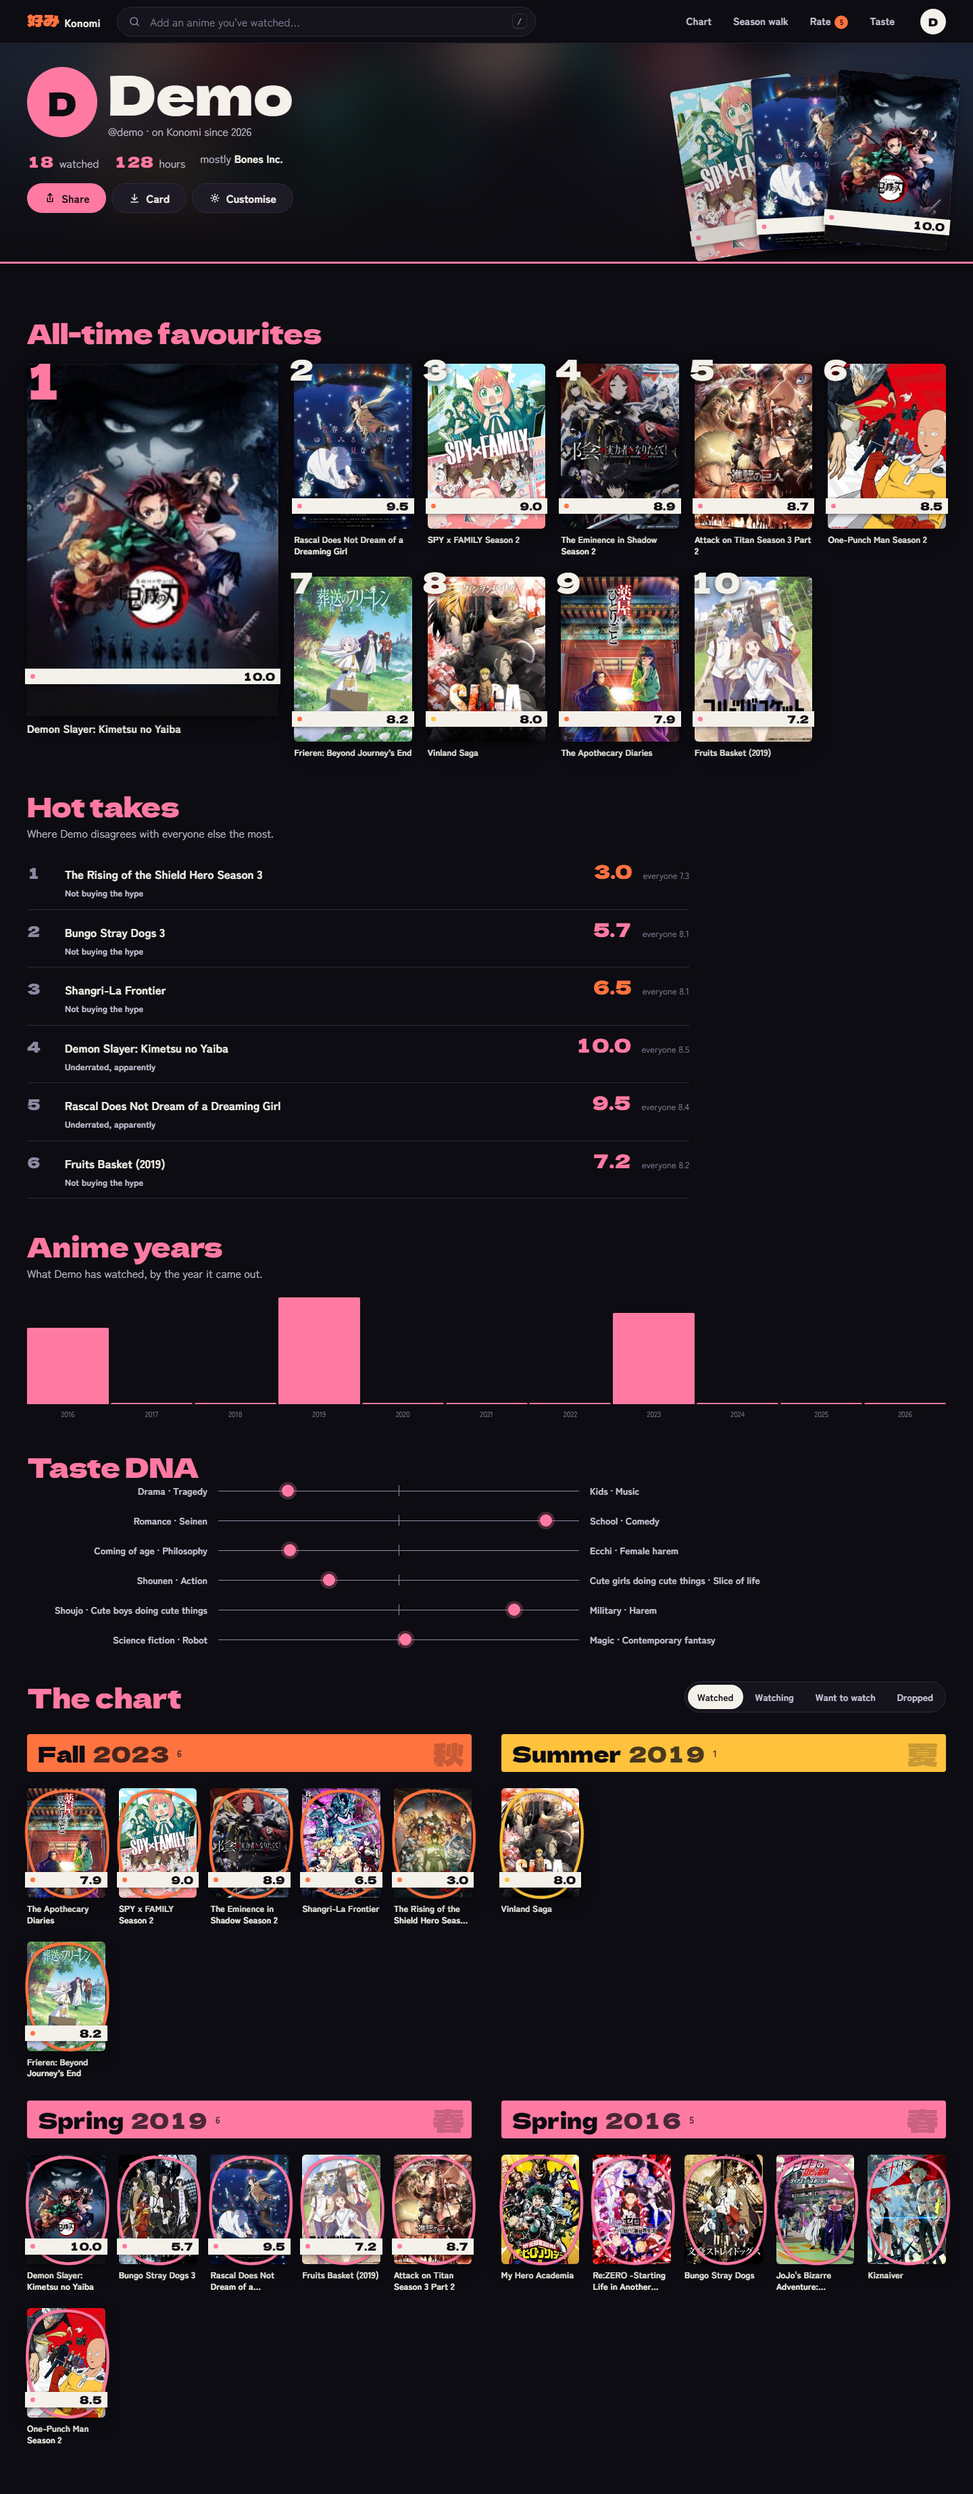
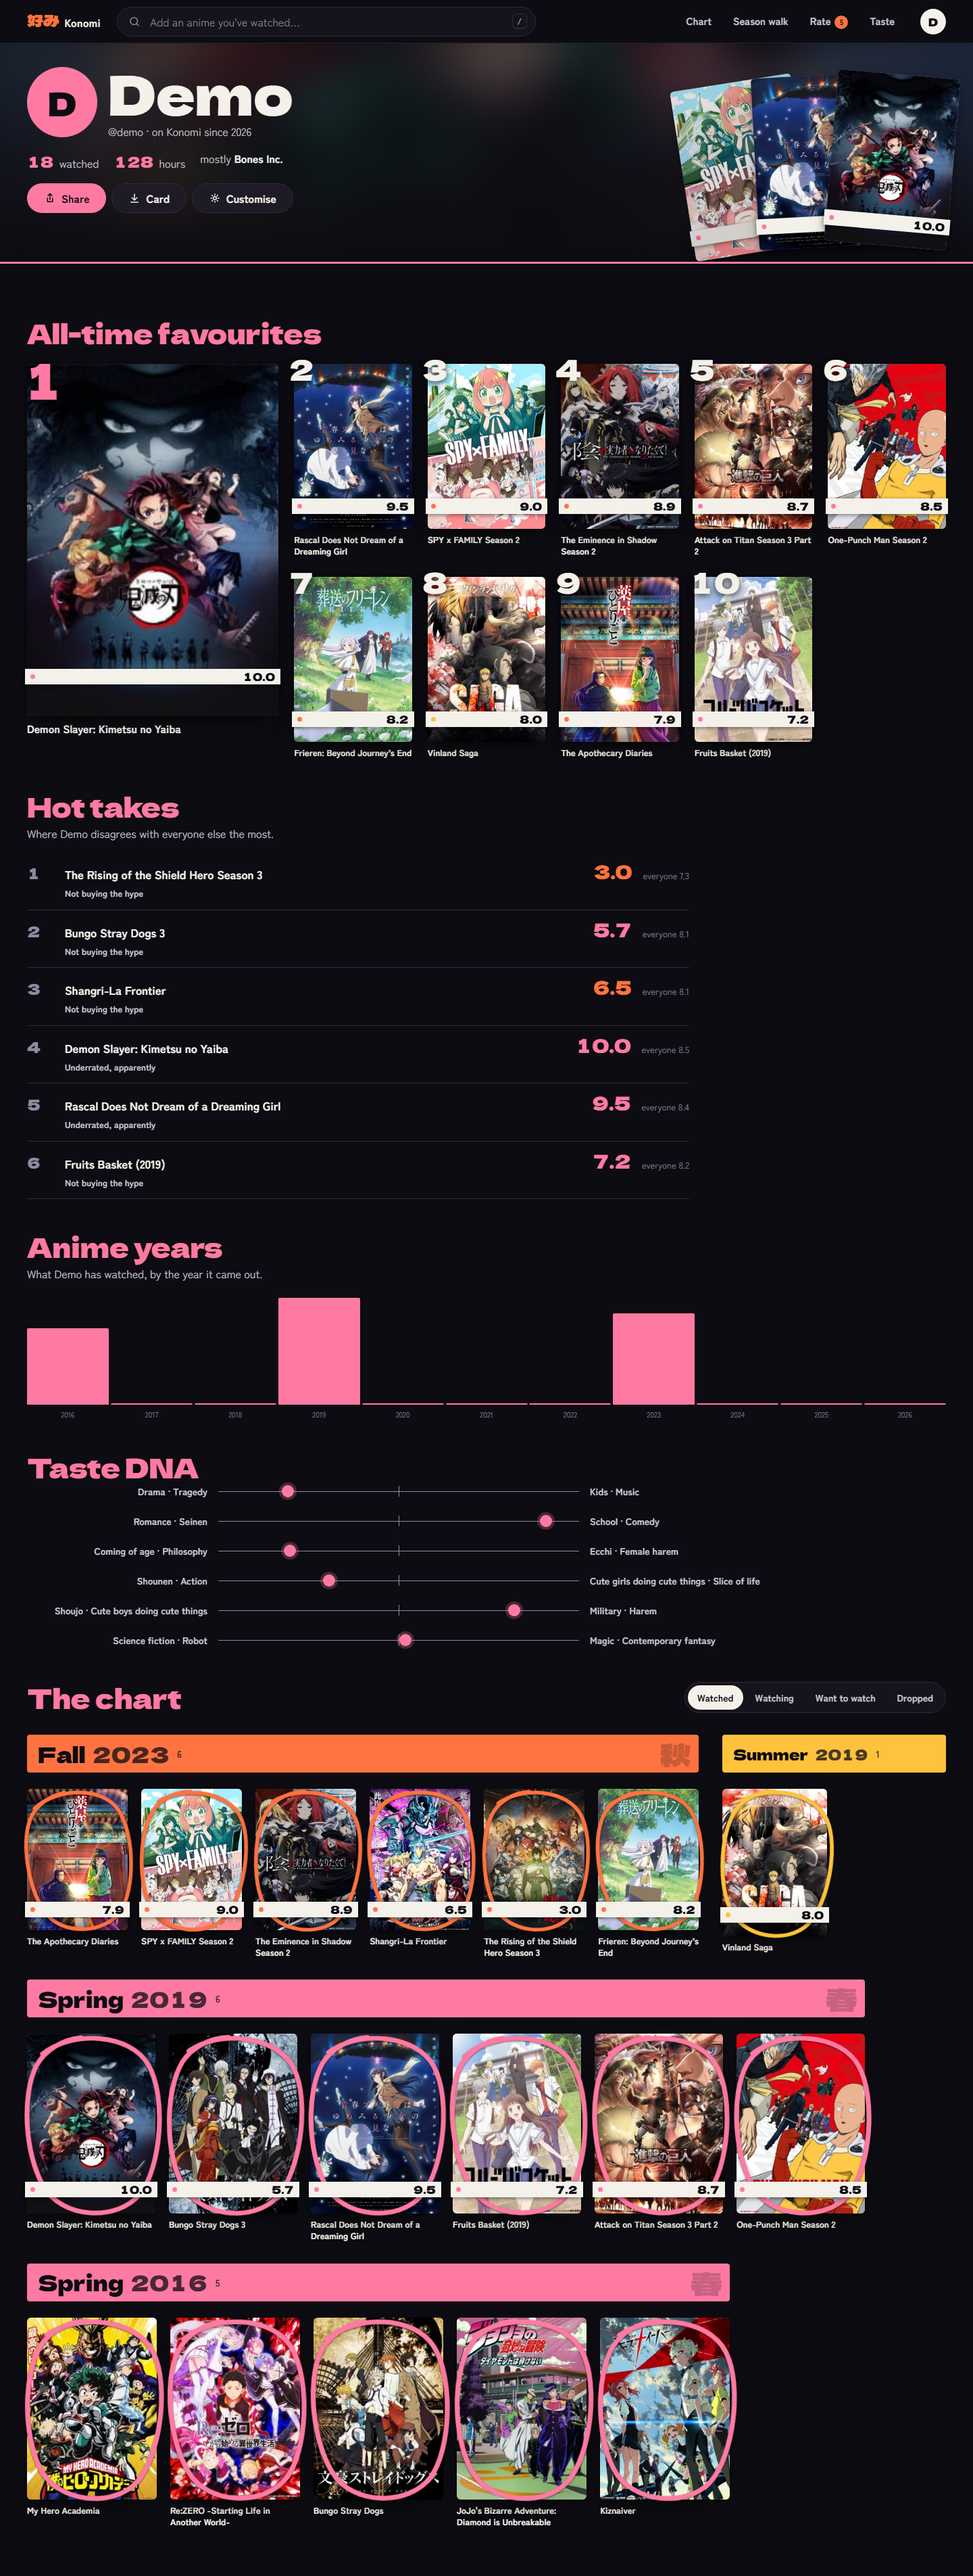
Chart bands pack by size, rate panel docks in rail, capture tooling

diff --git a/web/src/components/seasonband.css b/web/src/components/seasonband.css
@@ -24,10 +24,16 @@
 .band-neutral .band-aside .btn { background: transparent; color: var(--paper); }
 .band-neutral .band-aside .btn:hover { background: var(--ink-3); }
 
-.bands { display: grid; grid-template-columns: repeat(auto-fill, minmax(min(100%, 600px), 1fr)); gap: 0 clamp(24px, 3vw, 56px); align-items: start; }
+.bands { display: flex; flex-wrap: wrap; gap: 0 clamp(20px, 2.4vw, 44px); align-items: flex-start; }
+.bands > .band { flex: var(--n, 4) 1 calc(var(--n, 4) * 150px); max-width: min(100%, calc(var(--n, 4) * 200px + 40px)); }
 .bands > .band + .band { margin-top: 0; }
-.bands > .band-wide { grid-column: 1 / -1; }
-
+.bands > .band-wide { flex-basis: 100%; max-width: 100%; }
+.bands > .band:not(.band-wide) .grid { grid-template-columns: var(--cols, repeat(4, minmax(0, 1fr))); }
+@media (max-width: 700px) {
+  .bands > .band { flex-basis: 100%; max-width: 100%; }
+  .bands > .band:not(.band-wide) .grid { grid-template-columns: repeat(auto-fill, minmax(clamp(98px, 28vw, 150px), 1fr)); }
+}
+.bands > .band-wide .grid { grid-template-columns: repeat(auto-fill, minmax(clamp(96px, 8vw, 140px), 1fr)); }
 .grid {
   display: grid; gap: clamp(14px, 1.6vw, 26px) clamp(12px, 1.4vw, 22px);
   grid-template-columns: repeat(auto-fill, minmax(clamp(98px, 10.5vw, 158px), 1fr));
@@ -44,4 +50,5 @@
 .tile:hover .cover-art { transform: translateY(-3px); }
 .tile .cover-art { transition: transform 0.25s var(--ease-out); }
 .band-head:has(.band-aside) .band-kanji { display: none; }
-.bands .grid { grid-template-columns: repeat(auto-fill, minmax(clamp(96px, 8vw, 140px), 1fr)); }
+.band-narrow .band-kanji { display: none; }
+.band-narrow .band-title .display { font-size: 22px; }

diff --git a/web/src/components/SeasonBand.tsx b/web/src/components/SeasonBand.tsx
@@ -4,15 +4,18 @@ import type { Season } from '../lib/types'
 import './seasonband.css'
 
 /** A season header in its own ink: big kanji, season + year, and a count. */
-export function SeasonBand({ season, year, count, children, aside, label, neutral, wide }: {
+export function SeasonBand({ season, year, count, children, aside, label, neutral, wide, n }: {
   season: Season | null; year: number | null; count?: string; children: ReactNode; aside?: ReactNode; label?: string
   /** Not a real season (For you, Recently added): paper header, no season ink. */
   neutral?: boolean
   /** Span the full row inside a multi-column <Bands>. */
   wide?: boolean
+  /** Number of titles: inside <Bands>, a band is as wide as its titles need, so rows pack like a printed chart. */
+  n?: number
 }) {
   return (
-    <section className={`band${neutral ? ' band-neutral' : ''}${wide ? ' band-wide' : ''}`} data-season={neutral ? undefined : season ?? undefined}>
+    <section className={`band${neutral ? ' band-neutral' : ''}${wide ? ' band-wide' : ''}${n && n <= 2 ? ' band-narrow' : ''}`} data-season={neutral ? undefined : season ?? undefined}
+      style={n ? { ['--n' as string]: Math.min(Math.max(n, 2), 8), ['--cols' as string]: `repeat(${Math.min(Math.max(n, 2), 8)}, minmax(0, 1fr))` } : undefined}>
       <header className="band-head">
         {!neutral && season && <span className="band-kanji display" aria-hidden="true">{SEASON_KANJI[season]}</span>}
         <h2 className="band-title">

diff --git a/web/src/features/taste/Galaxy.tsx b/web/src/features/taste/Galaxy.tsx
@@ -128,9 +128,9 @@ function ClusterLabels({ points, clusters }: { points: Point[]; clusters: Cluste
       const s = sum.get(c.id)
       if (!s) continue
       const at = [s[0] / s[3] * SCALE, s[1] / s[3] * SCALE, s[2] / s[3] * SCALE] as [number, number, number]
-      if (placed.some((p) => Math.hypot(p.at[0] - at[0], p.at[1] - at[1], p.at[2] - at[2]) < 1.6)) continue
+      if (placed.some((p) => Math.hypot(p.at[0] - at[0], p.at[1] - at[1]) < 2.8)) continue
       placed.push({ id: c.id, label: c.label, at })
-      if (placed.length === 8) break
+      if (placed.length === 7) break
     }
     return placed
   }, [points, clusters])

diff --git a/web/src/features/profile/ProfilePage.tsx b/web/src/features/profile/ProfilePage.tsx
@@ -205,7 +205,7 @@ export function ProfilePage() {
           </div>
         </div>
         <Bands>{grouped.map((g) => (
-          <SeasonBand key={`${g.year}-${g.season}`} season={g.season} year={g.year} count={`${g.items.length}`} wide={g.items.length > 12}>
+          <SeasonBand key={`${g.year}-${g.season}`} season={g.season} year={g.year} count={`${g.items.length}`} wide={g.items.length > 8} n={g.items.length}>
             <CoverGrid dense>
               {g.items.map((e) => (
                 <Link key={e.anime.id} to={`/anime/${e.anime.id}`} className="tile" data-season={e.anime.season ?? undefined}>

diff --git a/web/src/features/list/ChartPage.tsx b/web/src/features/list/ChartPage.tsx
@@ -86,7 +86,7 @@ export function ChartPage() {
       </div>
 
       {sort === 'season' ? <Bands>{groups.map((g) => (
-        <SeasonBand key={`${g.year}-${g.season}`} season={g.season} year={g.year} count={`${g.items.length}`} wide={g.items.length > 12}>
+        <SeasonBand key={`${g.year}-${g.season}`} season={g.season} year={g.year} count={`${g.items.length}`} wide={g.items.length > 8} n={g.items.length}>
           <CoverGrid>{g.items.map((e) => <Tile key={e.anime_id} e={e} />)}</CoverGrid>
         </SeasonBand>
       ))}</Bands> : (

diff --git a/web/src/features/rate/ratepanel.css b/web/src/features/rate/ratepanel.css
@@ -10,6 +10,10 @@
   .rp { left: auto; right: 24px; bottom: 24px; width: 400px; max-height: calc(100dvh - 120px); }
 }
 @media (min-width: 1920px) { .rp { width: 440px; right: 40px; bottom: 40px; } }
+@media (min-width: 1280px) {
+  .rp { top: calc(var(--topbar) + 24px); bottom: auto; right: var(--gutter); width: clamp(300px, 24vw, 420px); }
+  body:has(.rp) .home-rail { visibility: hidden; }
+}
 
 .rp-head { display: flex; align-items: center; gap: var(--s3); margin-bottom: var(--s4); }
 .rp-head .cover { flex: none; }

diff --git a/web/src/features/taste/taste.css b/web/src/features/taste/taste.css
@@ -73,7 +73,7 @@
 
 .g-label {
   display: block; white-space: nowrap; font-size: 13px; font-weight: 700; letter-spacing: 0.01em;
-  padding: 3px 10px; border-radius: var(--r-pill); background: rgb(13 12 18 / 0.72); user-select: none;
+  padding: 3px 10px; border-radius: var(--r-pill); background: rgb(13 12 18 / 0.78); border: 1px solid currentColor; user-select: none;
 }
 @media (max-width: 640px) {
   .g-label { font-size: 11px; padding: 2px 8px; }
